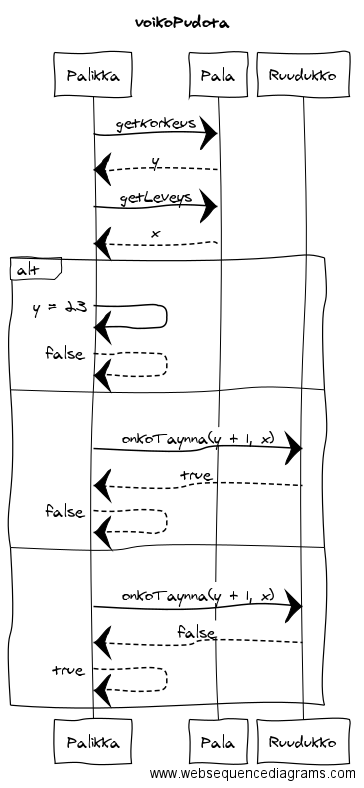
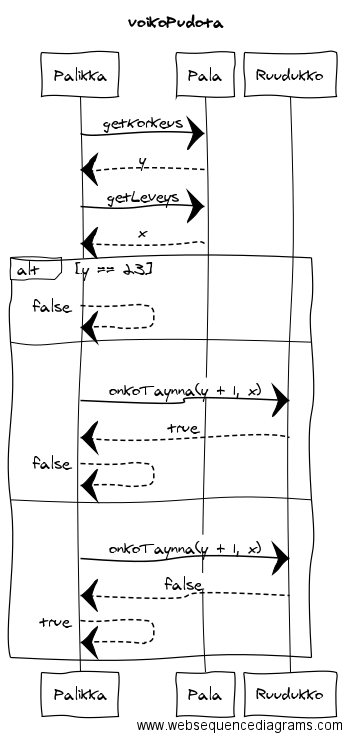
pelaaja voi pudottaa

Changed region(s): [[0.0, 0.0, 0.9687, 0.9946], [0.6553, 0.3108, 0.6838, 0.3419]]

diff --git a/JavaApplication2/javalabraTetris/src/main/java/tetris/ui/NappaimistonKuuntelija.java b/JavaApplication2/javalabraTetris/src/main/java/tetris/ui/NappaimistonKuuntelija.java
@@ -31,6 +31,8 @@ public class NappaimistonKuuntelija implements KeyListener {
             peli.getPalikka().liikuOikealle();
         } else if (e.getKeyCode() == KeyEvent.VK_UP) {
             peli.getPalikka().pyori();
+        } else if (e.getKeyCode() == KeyEvent.VK_DOWN) {
+            peli.getPalikka().putoa();
         }
         
         

diff --git a/JavaApplication2/javalabraTetris/src/main/java/tetris/logiikka/Main.java b/JavaApplication2/javalabraTetris/src/main/java/tetris/logiikka/Main.java
@@ -19,7 +19,7 @@ public class Main {
      */
     public static void main(String[] args) {
 
-        Peli pelaus = new Peli();        // testikoodia
+        Peli pelaus = new Peli();
         pelaus.peliPyorinta();
 
         for (int y = 0; y <= 23; y++) {
